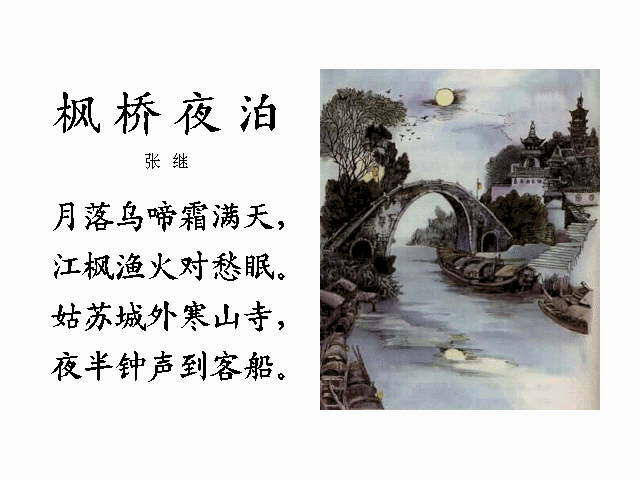
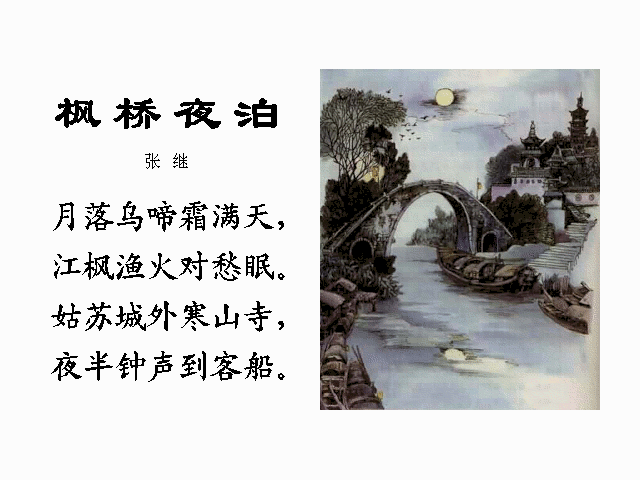
Updated PPT.TXT for more fonts

Changed region(s): [[0.1875, 0.1875, 0.4375, 0.2812], [0.0625, 0.1875, 0.1562, 0.2812]]

diff --git a/README.md b/README.md
@@ -81,6 +81,9 @@ Some programs require UCDOS's special display utility `TX.COM` and outline fonts
 UCDOS特显程序256色列表 256-Color Table of UCDOS Special Display Tool  
 ![Color Table](http://frank-deng.github.io/retro-works/screenshots/TX.png)
 
+UCDOS特显程序可用字体 Fonts available for UCDOS Special Display Tool  
+![Fonts](http://frank-deng.github.io/retro-works/screenshots/TX_Fonts.png)
+
 PPP服务器和Telnet服务器
 ----------------------
 
